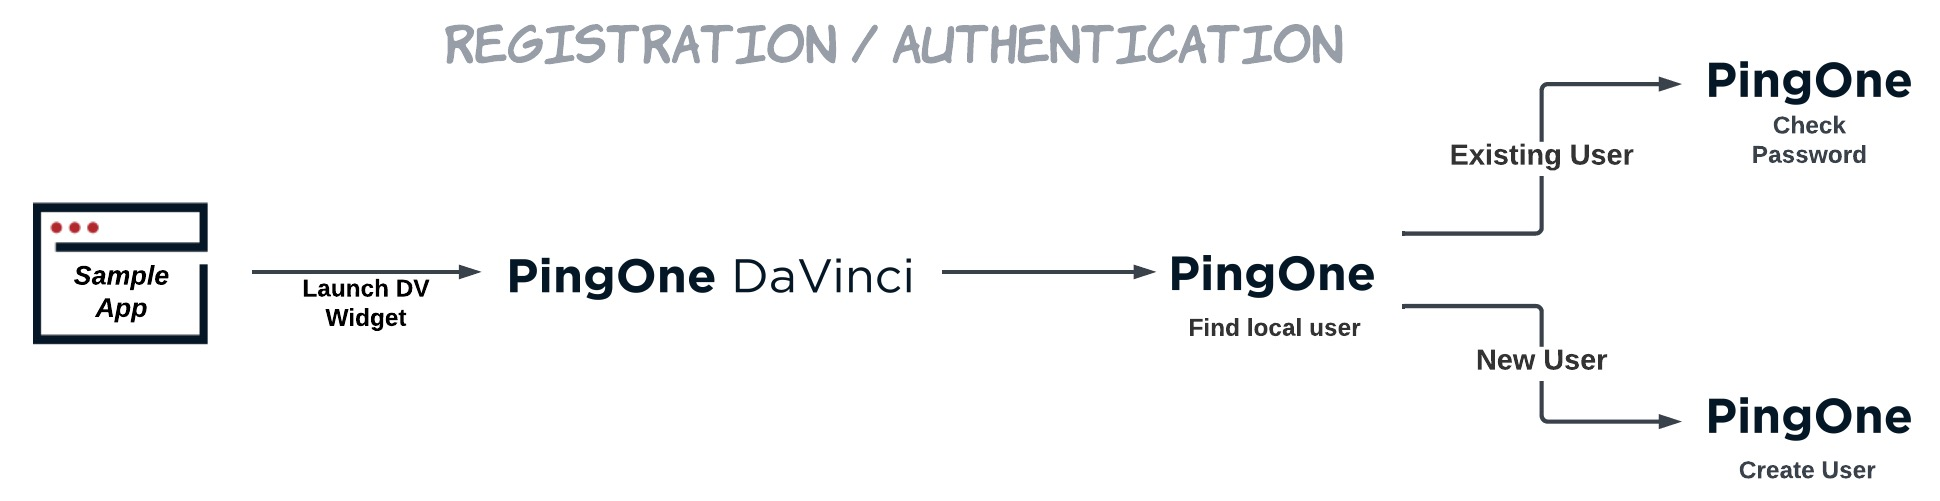
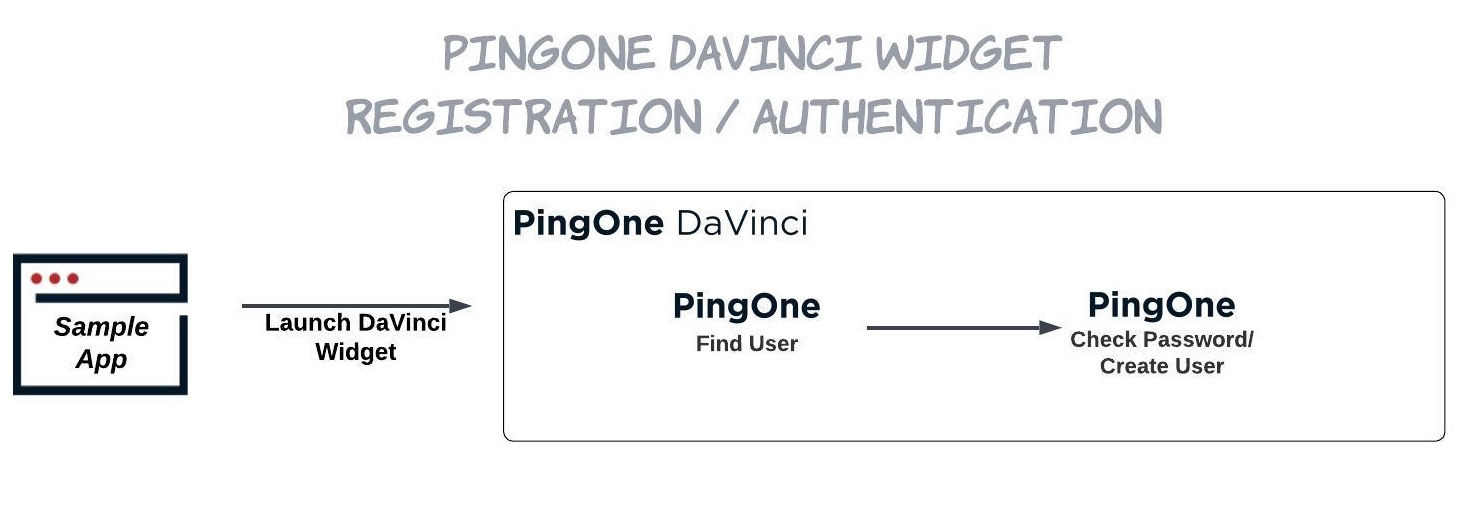
Diagrams for integration pkgs #185976008

diff --git a/davinci-api-registration-pkg/README.md b/davinci-api-registration-pkg/README.md
@@ -6,7 +6,10 @@
 - Configure a DaVinci Administrator environment in PingOne, see [Getting Stated - PingOne DaVinci](https://terraform.pingidentity.com/getting-started/davinci/)
 - After you have created a DaVinci Administrator environment you will need create a Worker App in the environment (Connections > Applications)
 
-## Use Case 
+## Use Case
+
+![Use Case Diagram](./diagram.jpeg)
+
 This integration package combines Terraform, DaVinci, and PingOne Directory to demonstrate user registration and authentication.
 
 Terraform allows for easy and quick deployment of all platform configurations necessary to run this sample application. 

diff --git a/davinci-sso-protect-pkg/README.md b/davinci-sso-protect-pkg/README.md
@@ -7,6 +7,9 @@
 - After you have created a DaVinci Administrator environment you will need create a Worker App in the environment (Connections > Applications)
 
 ## Use Case
+
+![Use Case Diagram](./diagram.jpeg)
+
 This integration package combines Terraform, DaVinci, PingOne SSO, PingOne Protect, the Signals SDK, and the OIDC SDK to demonstrate user registration and authentication, as well as threat protection.
 
 Terraform allows for easy and quick deployment of all platform configurations necessary to run this sample application. 

diff --git a/davinci-api-risk-pkg/README.md b/davinci-api-risk-pkg/README.md
@@ -7,6 +7,9 @@
 - After you have created a DaVinci Administrator environment you will need create a Worker App in the environment (Connections > Applications)
 
 ## Use Case
+
+![Use Case Diagram](./diagram.jpeg)
+
 This integration package combines Terraform, DaVinci, PingOne Protect, and the Signals SDK to demonstrate user registration and authentication, as well as threat protection. 
 
 Terraform allows for easy and quick deployment of all platform configurations necessary to run this sample application. 

diff --git a/ping-one-protect-pkg/README.md b/ping-one-protect-pkg/README.md
@@ -1,6 +1,9 @@
 # PingOne Protect + Terraform + PingOne Sample App Package
 
-## Use Case 
+## Use Case
+
+![Use Case Diagram](./diagram.jpeg)
+
 This integration package combines Terraform, PingOne Protect, and the Signals SDK to demonstrate threat detection capabilities.
 
 Terraform allows for easy and quick deployment of all platform configurations necessary to run this sample application. 
